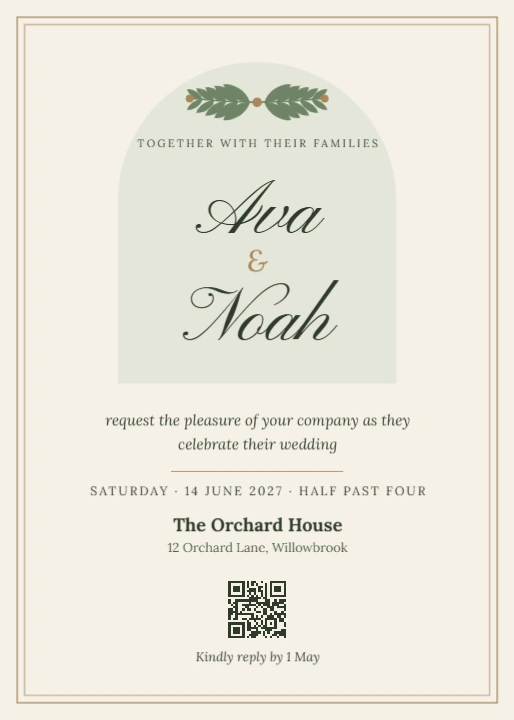
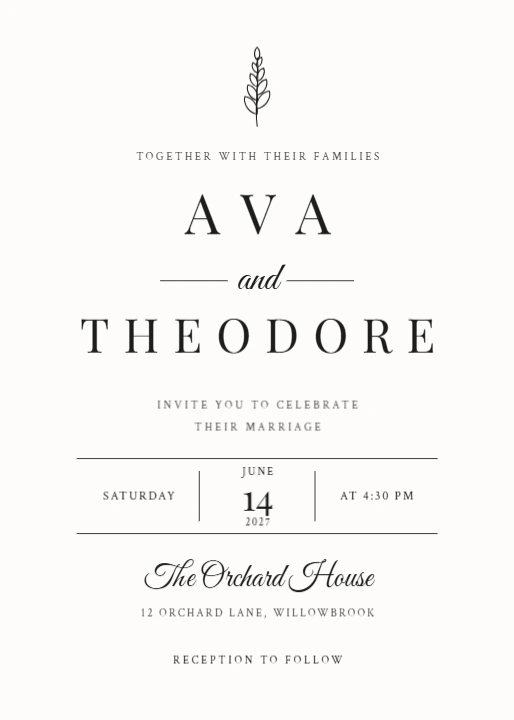
Wedding invitation after the best-selling minimalist suites
A fine line-drawn sprig, the names in widely spaced serif capitals with
a script "and" between strokes, the date in a row split by hairlines,
the venue in script and the address in small capitals.

diff --git a/frontend/scripts/templates/designs/botanicalInvitation.ts b/frontend/scripts/templates/designs/botanicalInvitation.ts
@@ -1,50 +1,71 @@
-import { DocBuilder } from '../kit'
-import { sprig } from '../decor'
-import { archPolygon, polygonPath } from '../geometry'
+import { DocBuilder, type PageBuilder } from '../kit'
+import { leafPath } from '../geometry'
 import type { TemplateDesign } from '../registry'
 
-// Quiet luxury: linen paper, a double hairline frame, a soft arch with greenery, script names and an RSVP code.
+// After the best-selling minimalist wedding suites: white card, black ink, a fine line-drawn sprig on top, the names in
+// widely spaced serif capitals with a script "and" between fine strokes, the date in a row split by hairlines, the venue
+// in script and the address in small capitals.
 const W = 480
 const H = 672
-const LINEN = '#f5f0e6'
-const ARCH = '#e4e7da'
-const OLIVE = '#2e3a2a'
-const SAGE = '#6f8466'
-const GOLD = '#a8865a'
+const PAPER = '#fdfcfa'
+const INK = '#1d1d1b'
+const SOFT = '#4d4a45'
+
+/** A small upright sprig drawn as outlines only, like a pen sketch. */
+function lineSprig(p: PageBuilder, cx: number, top: number, height: number): void {
+  const stem = `M ${cx} ${top + height} C ${cx - 3} ${top + height * 0.6} ${cx + 3} ${top + height * 0.3} ${cx} ${top}`
+  const leaves: string[] = []
+  for (let i = 0; i < 4; i++) {
+    const y = top + height * (0.82 - i * 0.2)
+    const length = 20 - i * 3.2
+    leaves.push(leafPath([cx, y], -125 + i * 4, length, length * 0.3))
+    leaves.push(leafPath([cx, y - height * 0.08], -55 - i * 4, length, length * 0.3))
+  }
+  leaves.push(leafPath([cx, top + 2], -90, 12, 3.6))
+  const sprig = [
+    p.path({ name: 'Stem', d: stem, stroke: INK, strokeWidth: 1, round: true, fill: '#00000000' }),
+    p.path({ name: 'Leaves', d: leaves.join(' '), stroke: INK, strokeWidth: 1, round: true, fill: '#00000000' }),
+  ]
+  p.group('Sprig', sprig, { locked: true })
+}
 
 export const botanicalInvitation: TemplateDesign = {
   slug: 'botanical-celebration-invitation',
   title: 'Botanical celebration invitation',
   category: 'invitations',
-  tags: ['wedding', 'invitation', 'botanical', 'elegant', 'minimal', 'rsvp'],
-  description: 'A quiet, elegant 5 x 7 in wedding invitation: linen paper, a soft arch with greenery, script names and an RSVP QR code.',
+  tags: ['wedding', 'invitation', 'botanical', 'elegant', 'minimal', 'black and white'],
+  description: 'A minimalist 5 x 7 in wedding invitation: a fine line-drawn sprig, the names in spaced serif capitals with a script "and", and the date in a row split by hairlines.',
   preset: '',
-  async build() {
+  build() {
     const doc = new DocBuilder(this.slug, { width: W, height: H, unit: 'in' })
-    const p = doc.page('Invitation', { type: 'solid', color: LINEN })
+    const p = doc.page('Invitation', { type: 'solid', color: PAPER })
 
-    // Frame and arch.
-    p.rect({ name: 'Outer frame', x: 16, y: 16, w: W - 32, h: H - 32, fill: '#00000000', stroke: GOLD, strokeWidth: 1.2, locked: true })
-    p.rect({ name: 'Inner frame', x: 23, y: 23, w: W - 46, h: H - 46, fill: '#00000000', stroke: GOLD, strokeWidth: 0.6, locked: true })
-    p.path({ name: 'Arch', d: polygonPath(archPolygon(110, 58, 260, 300)), fill: ARCH, locked: true })
-    sprig(p, { name: 'Greenery', cx: 240, cy: 92, span: 120, leaf: SAGE, berry: GOLD })
+    lineSprig(p, W / 2, 54, 64)
+    p.text({ name: 'Families', x: 0, y: 140, w: W, text: 'Together with their families', font: 'crimson', size: 10, color: SOFT, on: PAPER, align: 'center', upper: true, spacing: 260, lines: 1 })
 
-    // Names inside the arch.
-    p.text({ name: 'Families', x: 110, y: 128, w: 260, text: 'Together with their families', font: 'lora', size: 10, color: OLIVE, on: ARCH, spacing: 220, upper: true, align: 'center', lines: 1 })
-    p.text({ name: 'First name', x: 110, y: 154, w: 260, text: 'Ava', font: 'pinyon', size: 72, color: OLIVE, on: ARCH, align: 'center', lh: 1.05, lines: 1 })
-    p.text({ name: 'Ampersand', x: 110, y: 228, w: 260, text: '&', font: 'lora', italic: true, size: 28, color: GOLD, on: ARCH, align: 'center', decorative: true, lines: 1 })
-    p.text({ name: 'Second name', x: 110, y: 254, w: 260, text: 'Noah', font: 'pinyon', size: 72, color: OLIVE, on: ARCH, align: 'center', lh: 1.05, lines: 1 })
+    // The names.
+    p.text({ name: 'First name', x: 0, y: 172, w: W, text: 'Ava', font: 'playfair', size: 52, color: INK, on: PAPER, align: 'center', upper: true, spacing: 420, lh: 1.1, lines: 1 })
+    p.line({ name: 'Stroke left', x1: 150, y1: 262, x2: 212, y2: 262, color: INK, width: 0.8 })
+    p.text({ name: 'And', x: 0, y: 238, w: W, text: 'and', font: 'greatVibes', size: 36, color: INK, on: PAPER, align: 'center', lines: 1 })
+    p.line({ name: 'Stroke right', x1: 268, y1: 262, x2: 330, y2: 262, color: INK, width: 0.8 })
+    p.text({ name: 'Second name', x: 0, y: 290, w: W, text: 'Theodore', font: 'playfair', size: 44, color: INK, on: PAPER, align: 'center', upper: true, spacing: 300, lh: 1.1, lines: 1 })
+    p.text({ name: 'Invitation', x: 60, y: 372, w: 360, text: 'Invite you to celebrate\ntheir marriage', font: 'crimson', size: 10.5, color: SOFT, on: PAPER, align: 'center', upper: true, spacing: 240, lh: 1.7, lines: 2 })
 
-    // The invitation.
-    p.text({ name: 'Invitation line', x: 70, y: 384, w: 340, text: 'request the pleasure of your company as they celebrate their wedding', font: 'lora', italic: true, size: 14, color: OLIVE, on: LINEN, align: 'center', lh: 1.45, lines: 2 })
-    p.line({ name: 'Date rule', x1: 160, y1: 440, x2: 320, y2: 440, color: GOLD, width: 0.8 })
-    p.text({ name: 'Date', x: 40, y: 452, w: 400, text: 'Saturday · 14 June 2027 · half past four', font: 'lora', size: 11.5, color: OLIVE, on: LINEN, spacing: 160, upper: true, align: 'center', lines: 1 })
-    p.text({ name: 'Venue', x: 40, y: 480, w: 400, text: 'The Orchard House', font: 'lora', bold: true, size: 17, color: OLIVE, on: LINEN, align: 'center', lines: 1 })
-    p.text({ name: 'Address', x: 40, y: 504, w: 400, text: '12 Orchard Lane, Willowbrook', font: 'lora', size: 12, color: '#4f5f48', on: LINEN, align: 'center', lines: 1 })
+    // The date, in a row split by hairlines.
+    p.line({ name: 'Date rule top', x1: 72, y1: 428, x2: 408, y2: 428, color: INK, width: 0.8 })
+    p.line({ name: 'Date rule bottom', x1: 72, y1: 498, x2: 408, y2: 498, color: INK, width: 0.8 })
+    p.line({ name: 'Date divider left', x1: 186, y1: 440, x2: 186, y2: 486, color: INK, width: 0.8 })
+    p.line({ name: 'Date divider right', x1: 294, y1: 440, x2: 294, y2: 486, color: INK, width: 0.8 })
+    p.text({ name: 'Weekday', x: 72, y: 456, w: 114, text: 'Saturday', font: 'crimson', size: 11, color: INK, on: PAPER, align: 'center', upper: true, spacing: 160, lines: 1 })
+    p.text({ name: 'Month', x: 186, y: 434, w: 108, text: 'June', font: 'crimson', size: 10, color: INK, on: PAPER, align: 'center', upper: true, spacing: 200, lines: 1 })
+    p.text({ name: 'Day', x: 186, y: 446, w: 108, text: '14', font: 'playfair', size: 34, color: INK, on: PAPER, align: 'center', lh: 1, lines: 1 })
+    p.text({ name: 'Year', x: 186, y: 482, w: 108, text: '2027', font: 'crimson', size: 9, color: INK, on: PAPER, align: 'center', spacing: 200, lines: 1 })
+    p.text({ name: 'Time', x: 294, y: 456, w: 114, text: 'At 4:30 PM', font: 'crimson', size: 11, color: INK, on: PAPER, align: 'center', upper: true, spacing: 160, lines: 1 })
 
-    // RSVP.
-    await p.qr({ name: 'RSVP code', x: 211, y: 540, size: 58, spec: { text: 'https://example.com/rsvp', fg: OLIVE, bg: LINEN } })
-    p.text({ name: 'RSVP', x: 40, y: 606, w: 400, text: 'Kindly reply by 1 May', font: 'lora', italic: true, size: 12, color: OLIVE, on: LINEN, align: 'center', lines: 1 })
+    // Venue and address.
+    p.text({ name: 'Venue', x: 0, y: 520, w: W, text: 'The Orchard House', font: 'greatVibes', size: 30, color: INK, on: PAPER, align: 'center', lines: 1 })
+    p.text({ name: 'Address', x: 0, y: 566, w: W, text: '12 Orchard Lane, Willowbrook', font: 'crimson', size: 10, color: SOFT, on: PAPER, align: 'center', upper: true, spacing: 200, lines: 1 })
+    p.text({ name: 'Reception', x: 0, y: 610, w: W, text: 'Reception to follow', font: 'crimson', size: 10, color: INK, on: PAPER, align: 'center', upper: true, spacing: 260, lines: 1 })
     return doc
   },
 }
